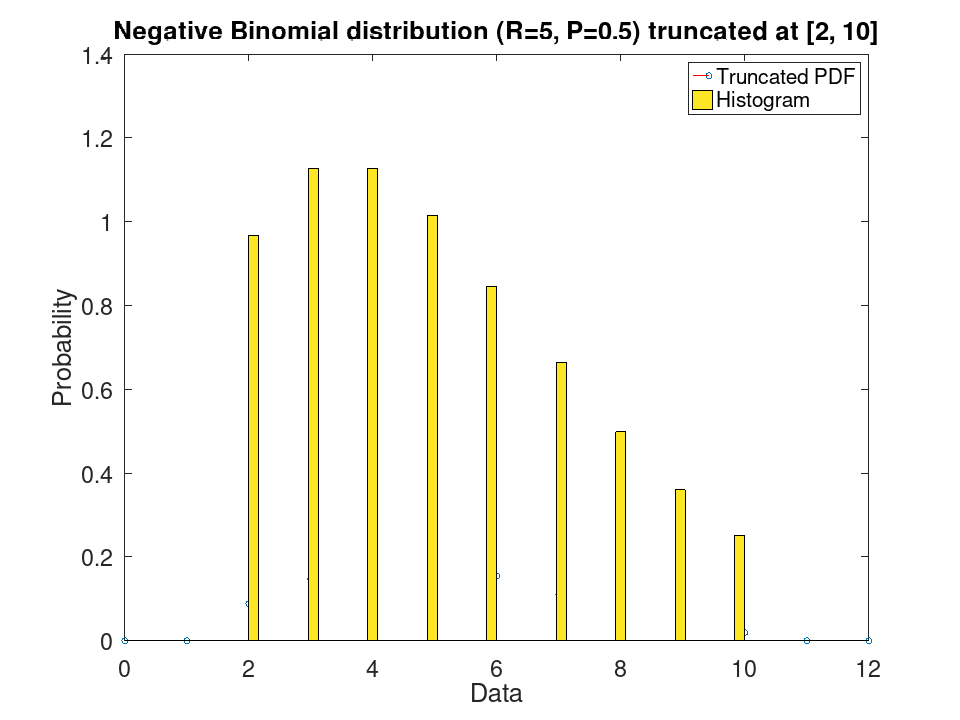
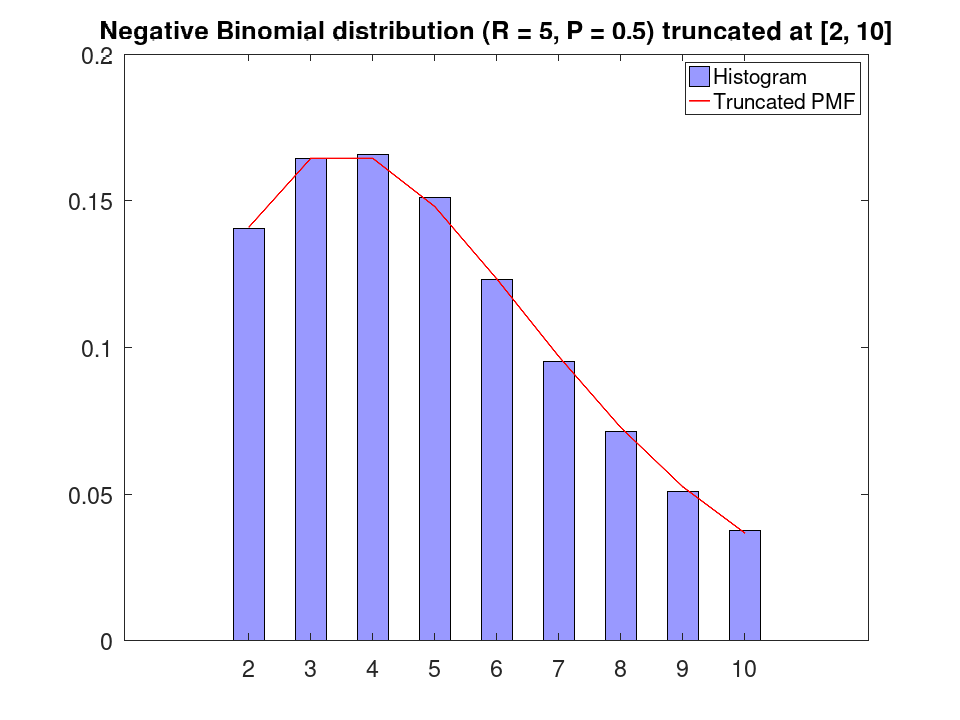
prob.NegativeBinomialDistribution: rewrite the truncate demo
* inst/demos/prob.NegativeBinomialDistribution.truncate: Draw the
  samples from the truncated distribution and compare them with its PMF;
  no longer switch every warning off.
  * docs/prob.NegativeBinomialDistribution.html,
  docs/assets/prob.NegativeBinomialDistribution.truncate-101.png:
  Regenerate.

diff --git a/docs/prob.NegativeBinomialDistribution.html b/docs/prob.NegativeBinomialDistribution.html
@@ -1139,7 +1139,7 @@
   <a href="nbinstat.html">nbinstat</a>
 </p>
 <p><strong>Source Code: </strong>
-  <a href="https://github.com/gnu-octave/statistics/blob/86d9927/inst/Distribution_Classes/+prob/NegativeBinomialDistribution.m">prob.NegativeBinomialDistribution</a>
+  <a href="https://github.com/gnu-octave/statistics/blob/fa9aceb/inst/Distribution_Classes/+prob/NegativeBinomialDistribution.m">prob.NegativeBinomialDistribution</a>
 </p>
 </div>
         <p class="lead my-3">The <code>prob.NegativeBinomialDistribution</code> class contains the following properties:</p>
@@ -3086,30 +3086,26 @@ Truncate a probability distribution.
           </div>
           <div class="collapse" id="prob_NegativeBinomialDistribution_truncate-example1">
             <div class="card-body">
-                <p>Generate a deterministic data set mimicking 10000 samples from a truncated Negative Binomial distribution with parameters R = 5 and P = 0.5, truncated at [2, 10].  Fit a Negative Binomial distribution to this data and plot a PDF of the truncated fitted distribution superimposed on a histogram of the data.</p>
-                <pre style="overflow-x: auto; white-space: pre; padding: 0.6rem 0.8rem; margin: 0.3rem 0; border: 1px solid #cfe0e6; border-left: 4px solid #4a90a4; border-radius: 4px; background-color: #eef5f8;"> x_vals = 2:10;
- probs = nbinpdf (x_vals, 5, 0.5);
- total_prob = nbincdf (10, 5, 0.5) - nbincdf (1, 5, 0.5);
- probs = probs / total_prob;
- N = 10000;
- freq = round (probs * N);
- data = [];
- data = repelem (x_vals, freq);
- warning ("off", "all");
- pd = fitdist (data, "NegativeBinomial");
- t = truncate (pd, 2, 10);</pre>
-                <p>Plot histogram and truncated PDF</p>
-                <pre style="overflow-x: auto; white-space: pre; padding: 0.6rem 0.8rem; margin: 0.3rem 0; border: 1px solid #cfe0e6; border-left: 4px solid #4a90a4; border-radius: 4px; background-color: #eef5f8;"> plot (t)
+                <p>Plot the PMF of a Negative Binomial distribution, with parameters R = 5 and P = 0.5, truncated at [2, 10].  Generate 10000 random samples from this truncated distribution and superimpose a histogram of their relative frequencies.</p>
+                <pre style="overflow-x: auto; white-space: pre; padding: 0.6rem 0.8rem; margin: 0.3rem 0; border: 1px solid #cfe0e6; border-left: 4px solid #4a90a4; border-radius: 4px; background-color: #eef5f8;"> rng (42);
+ randg ('state', 42);
+ randp ('state', 42);
+ pd = makedist ("NegativeBinomial", "R", 5, "P", 0.5);
+ t = truncate (pd, 2, 10);
+ data = random (t, 10000, 1);</pre>
+                <p>Relative frequency of each value from 2 to 10</p>
+                <pre style="overflow-x: auto; white-space: pre; padding: 0.6rem 0.8rem; margin: 0.3rem 0; border: 1px solid #cfe0e6; border-left: 4px solid #4a90a4; border-radius: 4px; background-color: #eef5f8;"> centers = 2:10;
+ probs = histc (data, centers) / numel (data);
+ bar (centers, probs, 0.5, "facecolor", [0.6 0.6 1]);
  hold on
- [counts, centers] = hist (data, 50);
- bar (centers, counts / trapz (centers, counts), 'hist');
+ plot (centers, pdf (t, centers), 'r-', "linewidth", 2);
  hold off
- title ("Negative Binomial distribution (R=5, P=0.5) truncated at [2, 10]")
- legend ("Truncated PDF", "Histogram")</pre>
+ title ("Negative Binomial distribution (R = 5, P = 0.5) truncated at [2, 10]")
+ legend ("Histogram", "Truncated PMF")</pre>
                 <div class="text-center">
                   <img src="assets/prob.NegativeBinomialDistribution.truncate-101.png" class="rounded img-thumbnail" width= "70%" alt="plotted figure">
                 </div><p></p>
-                <p>This demonstrates truncating a Negative Binomial distribution to a specific range and visualizing the resulting distribution with random samples.</p>
+                <p>This demonstrates truncating a Negative Binomial distribution to a specific range and checking the result against random samples.</p>
 
             </div>
           </div>
